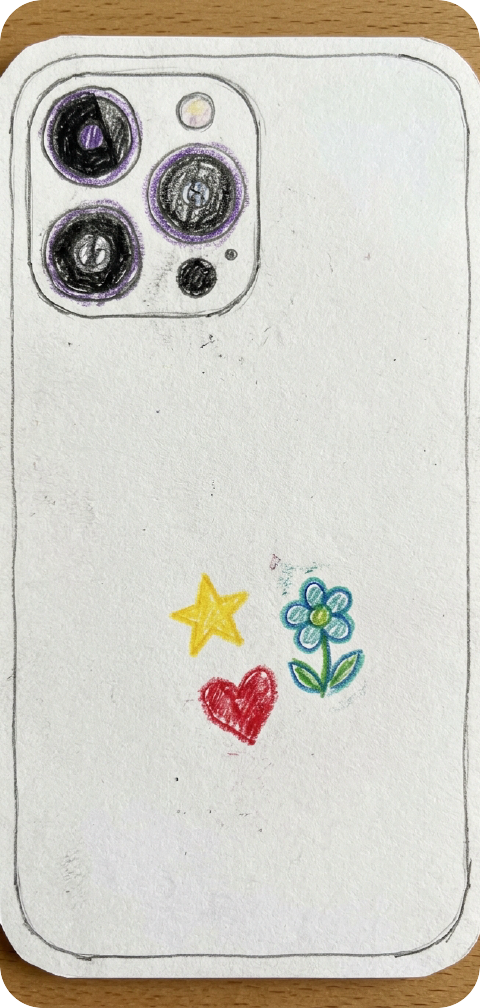
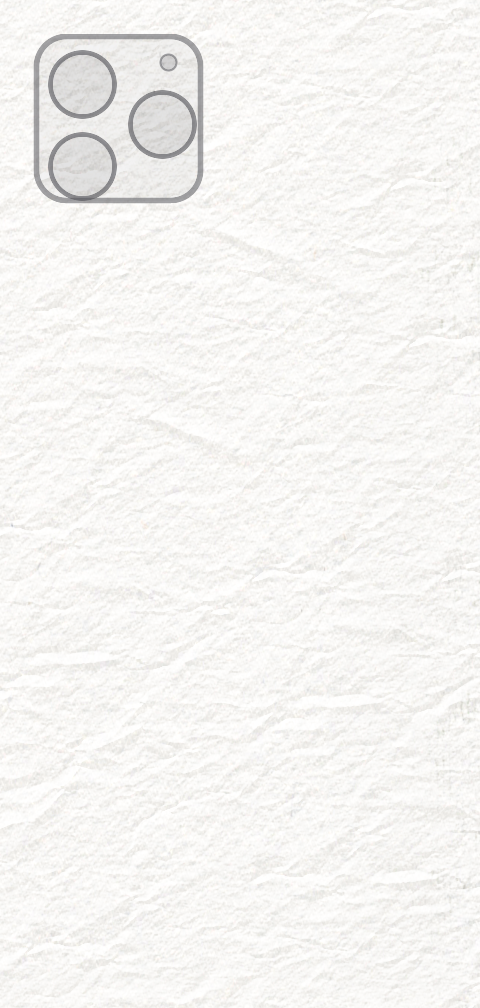
fix(paper-phone): 纸壳贴图弃 AIGC 改实拍微皱白纸(老板返工)
AIGC 合成的"纸的照片"带木桌残影/光照不均/边框错位,正/背面壳+跨页底
+正面屏底全部换成实拍 CC0 纸纹合成(ambientCG Paper001 底色×Paper005
置换 shade 折痕,ImageMagick 确定性后期:背面简笔三摄岛、跨页中缝折痕
渐变),来源署名 assets/ui/PHONE3D_PAPER_SOURCE.txt;manifest 清退三张
AIGC 大图(铅笔数字/灵动岛小贴片保留);跨页边距随蜡笔框退役收窄。

diff --git a/docs/paper-phone-design.md b/docs/paper-phone-design.md
@@ -61,18 +61,22 @@ FRONT ──点手机外/再点入口──▶ STOWED
 
 走 `gen_ui_assets.mjs`,新增清单项(画风统一"白卡纸+铅笔线稿+蜡笔涂色+贴纸",**prompt 禁写 iPhone/Apple 等 IP 名**,用外观描述:"rounded-corner smartphone, pill-shaped island cutout, triple camera rings in rounded square island"):
 
-| 资产 | 用途 |
-|---|---|
-| `phone3d_front_shell` | A 外面:纸质机身正面框(铅笔 bezel),屏幕区由 viewport quad 覆盖 |
-| `phone3d_back_shell` | B 外面:纸质背面(铅笔三摄岛、蜡笔贴纸;圆角外程序白化) |
-| `phone3d_spread_bg` | 跨页内页底(蓝红蜡笔双页框+装订线,裁掉木桌边) |
-| `phone3d_island` | 灵动岛石墨药丸贴片(悬浮正面视口顶部中央) |
-| `phone3d_digit_0..9/colon` | 铅笔手写数字贴片(状态栏时钟逐字拼,Label 隐藏作测试锚点) |
-| app 图标 | 复用现有 `app_flowers/app_items/app_settings` 贴纸 |
+| 资产 | 用途 | 来源 |
+|---|---|---|
+| `phone3d_front_shell` | A 外面纸壳(屏幕区由 viewport quad 覆盖) | 实拍纸纹裁切 |
+| `phone3d_back_shell` | B 外面纸壳+简笔三摄岛(ImageMagick 矢量描) | 实拍纸纹+程序描 |
+| `phone3d_spread_bg` | 跨页内页底(中缝折痕渐变) | 实拍纸纹+程序合成 |
+| `phone3d_paper` | 正面视口屏幕底纸纹 | 实拍纸纹 |
+| `phone3d_island` | 灵动岛石墨药丸贴片(悬浮正面视口顶部中央) | AIGC pencil 模式 |
+| `phone3d_digit_0..9/colon` | 铅笔手写数字贴片(状态栏时钟逐字拼) | AIGC pencil 模式 |
+| app 图标 | 复用现有 `app_flowers/app_items/app_settings` 贴纸 | 既有资产 |
 
-落地备注:面板侧面纸边不用贴图(米白纯色已够);数字/灵动岛走生成器新增的
-`pencil` 模式(白纸生成+亮度键抠,绿幕会吃掉铅笔灰细线);港区 403 时生成走
-两段式 `--emit-jobs` → 首尔机 `fetch_openrouter_images.py` → `--raw-dir`。
+落地备注(2026-07-11 老板返工拍板):**纸壳/跨页底不用 AIGC**——AIGC 合成的"纸的照片"
+带木桌残影/光照不均/边框错位,全部换成实拍 CC0 微皱白纸(ambientCG Paper001 底色 ×
+Paper005 置换 shade 折痕,见 assets/ui/PHONE3D_PAPER_SOURCE.txt),确定性 ImageMagick
+后期。AIGC 仅保留铅笔数字/灵动岛两类透明小贴片(生成器 pencil 模式:白纸生成+亮度键抠,
+绿幕会吃掉铅笔灰细线;港区 403 走两段式 --emit-jobs → 首尔机 → --raw-dir)。
+面板侧面纸边不用贴图(米白纯色已够)。
 
 屏幕区几何由代码常量定义(正面壳按固定屏占比设计),**不再用旧的"从壳贴图自动检测屏区"逻辑**。
 